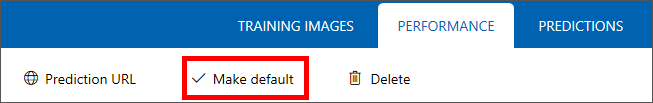
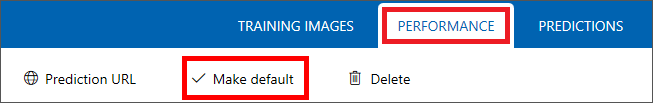
Edited Exercises 4 and 5 of the Custom Vision Service lab

Changed region(s): [[0.5819, 0.0583, 0.7963, 0.4369]]

diff --git a/Workshop/18. Custom Vision Service (Draft)/Resources/Client/Artworks/predict.js b/Workshop/18. Custom Vision Service (Draft)/Resources/Client/Artworks/predict.js
@@ -1,7 +1,7 @@
 $(function () {
 
-    var url = "https://southcentralus.api.cognitive.microsoft.com/customvision/v1.0/Prediction/a999a3e5-e00b-4f6e-bbd2-045432d67e2f/image?iterationId=bbcf86b8-96b1-44b8-b9e9-97b5421a2fa1";
-    var predictionKey = "0c574fac4c3045ebb237164898240974";
+    var url = "PREDICTION_ENDPOINT";
+    var predictionKey = "PREDICTION_KEY";
     
     var fs = require("fs");
     var _ = require('underscore');

diff --git a/Workshop/18. Custom Vision Service (Draft)/Custom Vision Service HOL.md b/Workshop/18. Custom Vision Service (Draft)/Custom Vision Service HOL.md
@@ -46,7 +46,7 @@ This hands-on lab includes the following exercises:
 - [Exercise 2: Upload tagged images](#Exercise2)
 - [Exercise 3: Train the model](#Exercise3)
 - [Exercise 4: Test the model](#Exercise4)
-- [Exercise 5: Create a Node.js app in Visual Studio Code](#Exercise5)
+- [Exercise 5: Create a Node.js app that uses the model](#Exercise5)
 - [Exercise 6: Upload painting images to perform and view predictions](#Exercise6)
 
 Estimated time to complete this lab: **60** minutes.
@@ -185,143 +185,110 @@ Noe let's test the model using the portal's Quick Test feature, which allows you
 <a name="Exercise4"></a>
 ## Exercise 4: Test the model ##
 
-Although you will be creating an app to perform predictions using the Custom Vision Service Prediction API in a later exercise, the Custom Vision Service portal makes it easy to test image prediction via the Quick Test feature. 
+In [Exercise 5](#Exercise5), you will create a Node.js app that uses the model to identify the artist of paintings presented to it. But you don't have to write an app to test the model; you can do your testing in the portal, and you can further refine the model using the images that you test with. In this exercise, you will test the model's ability to identify the artist of a painting using several test images. While you're at it, you will use the test images to make the model more intelligent.
 
-In this exercise, you'll be testing model predictions by uploading a few images using the Custom Vision Service Quick Test feature to review prediction results.
-
-1. In a browser, navigate to the [Custom Vision Service portal](https://www.customvision.ai/) and open your **Artworks** project, if not already open from the previous exercise.
-  
-1. In the Artworks workspace top menu, click **Quick Test** to view the "Quick Test" dialog.
+1. Click **Quick Test** at the top of the page.
  
-	![A successful model training](Images/portal-click-quick-test.png)
-    _A successful model training_ 
+	![Testing the model](Images/portal-click-quick-test.png)
 
-1. Click **Browse local files** and then browse to the **Quick Tests** folder located in the **Resources** folder included with this lab, select "PicassoTest_01.jpg", then click **Open**.
+    _Testing the model_ 
 
-	![Selecting to browse local files from the Quick Test dialog](Images/portal-quick-test-dialog.png)
-    _Selecting to browse local files from the Quick Test dialog_ 
+1. Click **Browse local files** and then browse to the "Quick Tests" folder in this lab's "Resources" folder. Select **PicassoTest_01.jpg**, and then click **Open**.
 
-	![Selecting a Picasso image for Quick Test](Images/portal-select-test-01.png)
-    _Selecting a Picasso image for Quick Test_ 
+	![Selecting a Picasso test image](Images/portal-select-test-01.png)
 
-1. After a short delay, the Custom Vision Service returns a prediction, based on your trained model, that determines the image is almost certainly (in the range of 99%) an "artist", "painting", and "famous", and is highly likely (in the range of over 70%) to be a "Picasso".
+    _Selecting a Picasso test image_ 
+
+1. Examine the results of the test in the "Quick Test" dialog. What is the probability that the painting is a Picasso? What is the probability that it is a Rembrandt or Pollock?
+
+1. Close the "Quick Test" dialog. Then click **Predictions** at the top of the page.
  
-	![A successful prediction of a Picasso painting images](Images/portal-test-results-01.png)
-    _A successful prediction of a Picasso painting images_ 
+	![Viewing the tests that have been performed](Images/portal-select-predictions.png)
 
-1. After reviewing the Quick Test prediction results, close the "Quick Test" dialog by clicking the **[x]** in the top-right corner of the dialog.
-1. Select the **Predictions** tab in the project workspace, then select the previously tested Picasso image from the workspace to view an image prediction detail dialog.
+    _Viewing the tests that have been performed_ 
+
+1. Click the test image that you uploaded to show a detail of it. Then tag the image as a "Picasso" by selecting **Picasso** from the drop-down list and clicking **Save and close**.
+
+	> By tagging test images this way, you can refine the model without uploading additional training images.
  
-	![The project Predictions tab](Images/portal-select-predictions.png)
-    _The project Predictions tab_ 
- 
-	![The image prediction detail dialog](Images/portal-prediction-detail.png)
-    _The image prediction detail dialog_ 
+	![Tagging the test image](Images/tag-test-image.png)
 
-	Since you already know the image is a Picasso, you can further refine the Custom Vision Service prediction by tagging the predicted image as a Picasso.
+    _Tagging the test image_ 
 
-1. Place your mouse cursor in the **tag entry** of the "My Tags" panel to view a list of previously defined tags, select the "Picasso" tag from the list, then click **Save and close**.
+1. Perform another quick test using the file named **FlowersTest.jpg** in the lab's "Resources\Quick Test" folder. Confirm that this image is assigned a low probability of being a Picasso, a Rembrandt, or a Pollock.
 
-	![Adding a Picasso tag to the predicted image](Images/portal-add-tag-01.png)
-    _Adding a Picasso tag to the predicted image_ 
+1. Perform additional tests on the model using other images in the lab's "Resources\Quick Test" folder, and after testing, use the Predictions panel to assign relevant tags to the test images to make the model smarter. For example, after testing with **PicassoTest_02.jpg**, assign the "Picasso" tag to the image.
 
-1. Perform another quick test on an additional image by repeating steps 3 and 4 using "FlowersTest.jpg". You’ll see the high prediction values for "artist", "famous", and "painting", and the extremely low likelihood (less than 1%) of the painting being a "Picasso", "Rembrandt", or "Pollock".
-
-	![The image prediction detail dialog](Images/portal-prediction-detail-lower.png)
-    _The image prediction detail dialog_ 
-
-By performing a Quick Test on these images you've been able to get a hint of how "smart" the Custom Vision Service can be via the portal; the Custom Vision Service via the REST-based Prediction API is even more powerful. 
-
-In the next exercise, you will be integrating the Prediction API into an app experience and prepare it for making predictions outside of the portal.
+Finish up by clicking the **Train** button at the top of the page to retrain the model using the test images that you tagged. Until you do this, the "smarts" gained from the additional tagged images aren't incorporated into the model.
 
 <a name="Exercise5"></a>
-## Exercise 5: Create a Node.js app in Visual Studio Code ##
+## Exercise 5: Create a Node.js app that uses the model ##
 
-The true power of Microsoft Custom Vision Services is in the ability for developers to easily integrate model training and image prediction into an app experience.
+The true power of the Microsoft Custom Vision Service is the ease with which developers can incorporate its intelligence into their own applications. In this exercise, you will use Visual Studio Code to modify an app named Artwork to use the model you built and trained in previous exercises. Then you will use the app to identify the artists of paintings.
 
-In this exercise, you will be using Visual Studio Code to configure a pre-built app named Artwork that can select and predict paintings from famous artists, similar to the features of Quick Test in the previous exercise.
+1. If Visual Studio Code isn't installed on your workstation, go to http://code.visualstudio.com and install it now.
 
-**If you have not installed Visual Studio Code on your local workstation, stop now and install it from the Microsoft [Visual Studio Code](http://code.visualstudio.com) portal.**
+1. Start Visual Studio Code and use the **File** > **Open Folder...** command to select the "Resources\Client\Artworks" folder included with this lab.
 
-1. Open Visual Studio Code and use the **File** > **Open Folder...** command to select the **Resources** > **Client** > **Artworks** folder included with this lab.
- 
-	![The Open Folder... menu in Visual Studio Code](Images/vs-open-folder.png)
-    _The Open Folder... menu in Visual Studio Code_ 
- 
-	![Selecting the Artworks folder from lab Resources](Images/fe-select-folder.png)
-    _Selecting the Artworks folder from lab Resources_ 
+	![Selecting the Artworks folder](Images/fe-select-folder.png)
 
-1. In Visual Studio Code, open the **Integrated Terminal** using the **View** > **Integrated Terminal** command. 
+    _Selecting the Artworks folder_ 
 
-	![The Open Folder... menu in Visual Studio Code](Images/vs-view-terminal.png)
-    _The Open Folder... menu in Visual Studio Code_ 
-
-1.  Using the **Integrated Terminal** window, type the following command to determine whether Node.js is installed on your system:
-
-	```	
-	node -v
-	```
-
-	If Node is not installed (you don't see a Node version number), then go to https://nodejs.org/ and install the version of Node that matches your operating system.
-
-1. Still in the **Integrated Terminal** window, execute the following command to restore any packages required by the app:
+1. Use the **View** > **Integrated Terminal** command to open an integrated terminal window in Visual Studio Code. Then execute the following command in the integrated terminal to load the packages required by the app:
 
 	```
 	npm install
 	```
-	
-	The Artworks app has been built to easily browse local images and send these images to the Custom Vision Service Prediction API; however the endpoint and authorization information will need to be added to a file in the project to access the project and model iteration created earlier in this lab.
 
-1. In a browser, navigate to the [Custom Vision Service portal](https://www.customvision.ai/) and open your **Artworks** project, if not already open from the previous exercise.
-
-1. Select the **Predictions** tab, then click **Make Default** from the actions panel. 
+1. Return to the Artwork project in the Custom Vision Service portal, click **Performance**, and then click **Make Default** to make sure the latest iteration of the model is the default iteration. 
 
 	![Setting an Iteration as the default](Images/portal-make-default.png)
+
     _Setting an Iteration as the default_ 
 
-	>Since Custom Vision Services support multiple iterations, the Predictions API requires a default iteration to be set or specified in the endpoint path.
+1. Before you can run the app and use it to call the Custom Vision Service, it needs to be modified to include endpoint and authorization information. To that end, click **Prediction URL**.
 
-1. Still on the **Predictions** tab, click **Prediction URL** to access the "How to use the Prediction API" panel.
+	![Viewing Prediction URL information](Images/portal-prediction-url.png)
 
-	![Accessing the Prediction URL information](Images/portal-prediction-url.png)
-    _Accessing the Prediction URL information_ 
+    _Viewing Prediction URL information_ 
 
-1. Note the "If you have an image file" section of the instructions. The information in this section will be required since the Artworks app send files to the API instead of URLs.
+1. The ensuing dialog lists two URLs: one for uploading images via URL, and another for uploading local images. Copy the Prediction API URL for image files to the clipboard. 
 
-	![Setting an Iteration as the default](Images/portal-prediction-url-panel.png)
-    _Setting an Iteration as the default_ 
+	![Copying the Prediction API URL](Images/copy-prediction-url.png)
 
-1. Copy the entire value of the Prediction API **endpoint** to the clipboard. 
+    _Copying the Prediction API URL_ 
 
-	![The Prediction API endpoint](Images/portal-endpoint.png)
-    _The Prediction API endpoint_ 
+1. Return to Visual Studio Code and click **predict.js** to open it in the code editor.
 
-1. Return to Visual Studio Code, then locate and open **predict.js** from the Explorer window.
+	![Opening predict.js](Images/vs-predict-file.png)
 
-	![The Artworks predict.js file](Images/vs-predict-file.png)
-    _The Artworks predict.js file_ 
+    _Opening predict.js_ 
 
-1. Locate the **url** variable on line 3, then paste to replace the value "PREDICTION_ENDPOINT" with the endpoint value contained in the clipboard.
- 
-	![The PREDICTION_ENDPOINT placeholder](Images/vs-prediction-endpoint.png)
-    _The PREDICTION_ENDPOINT placeholder_ 
+1. Replace "PREDICTION_ENDPOINT" in line 3 with the URL on the clipboard.
 
-1. Return to the "How to use the Prediction API" panel in the Custom Vision Service portal, then copy the entire value of the **Prediction-Key** to the clipboard. 
+	![Adding the Prediction API URL](Images/vs-prediction-endpoint.png)
 
-	![The Prediction API Prediction-Key value](Images/portal-prediction-key.png)
-    _The Prediction API Prediction-Key value_ 
+    _Adding the Prediction API URL_ 
 
-1. Locate the **predictionKey** variable on line 4, then paste to replace the value "PREDICTION_KEY" with the value contained in the clipboard.
+1. Return to the Custom Vision Service portal and copy the Predction API key to the clipboard. 
 
-	![The PREDICTION_KEY placeholder](Images/vs-prediction-key.png)
-    _The PREDICTION_KEY placeholder_ 
+	![Copying the Prediction API key](Images/copy-prediction-key.png)
 
-1. Look at the Prediction Endpoint (url) and Prediction Key (predictionKey) in the code block beginning on line 34 of the predict.js file. Using the Custom Vision Service Prediction API is as easy as making a simple, authenticated POST to an endpoint.
+    _Copying the Prediction API key_ 
 
-	![Making an authenticated POST to the Prediction API endpoint](Images/vs-code-block.png)
-    _Making an authenticated POST to the Prediction API endpoint_ 
+1. Return to Visual Studio Code and replace "PREDICTION_KEY" in line 4 of **predict.js** with the API key on the clipboard.
 
-1. Return to the **Integrated Terminal** window, then execute the following command to start the Artworks app:
+	![Adding the Prediction API key](Images/vs-prediction-key.png)
+
+    _Adding the Prediction API key_ 
+
+1. Scroll down in **predict.js** and examine block of code that begins on line 34. This is the code that calls out to the Custom Vision Service using AJAX. Using the Custom Vision Service Prediction API is as easy as making a simple, authenticated POST to a REST endpoint.
+
+	![Making a call to the Prediction API](Images/vs-code-block.png)
+
+    _Making a call to the Prediction API_ 
+
+1. Return to the integrated terminal in Visual Studio Code and execute the following command to start the app:
 
 	```
 	npm start
@@ -329,10 +296,11 @@ In this exercise, you will be using Visual Studio Code to configure a pre-built 
 
 1. Confirm that the Artworks app starts and displays a window like this one:
 
-	![The Artworks app running for the first time](Images/app-startup.png)
-    _The Artworks app running for the first time_ 
+	![The Artworks app](Images/app-startup.png)
 
-You're all set! With the Artworks app configured and ready to make predictions, the only thing left to do is to start using it.
+    _The Artworks app_ 
+
+Artworks is a cross-platform app written with Node.js and [Electron](https://electron.atom.io/). As such, it is equally capable of running on Windows, macOS, and Linux. In the next exercise, you will use to classify images by the artists who painted them.
 
 <a name="Exercise6"></a>
 ## Exercise 6: Upload painting images to perform and view predictions ##
